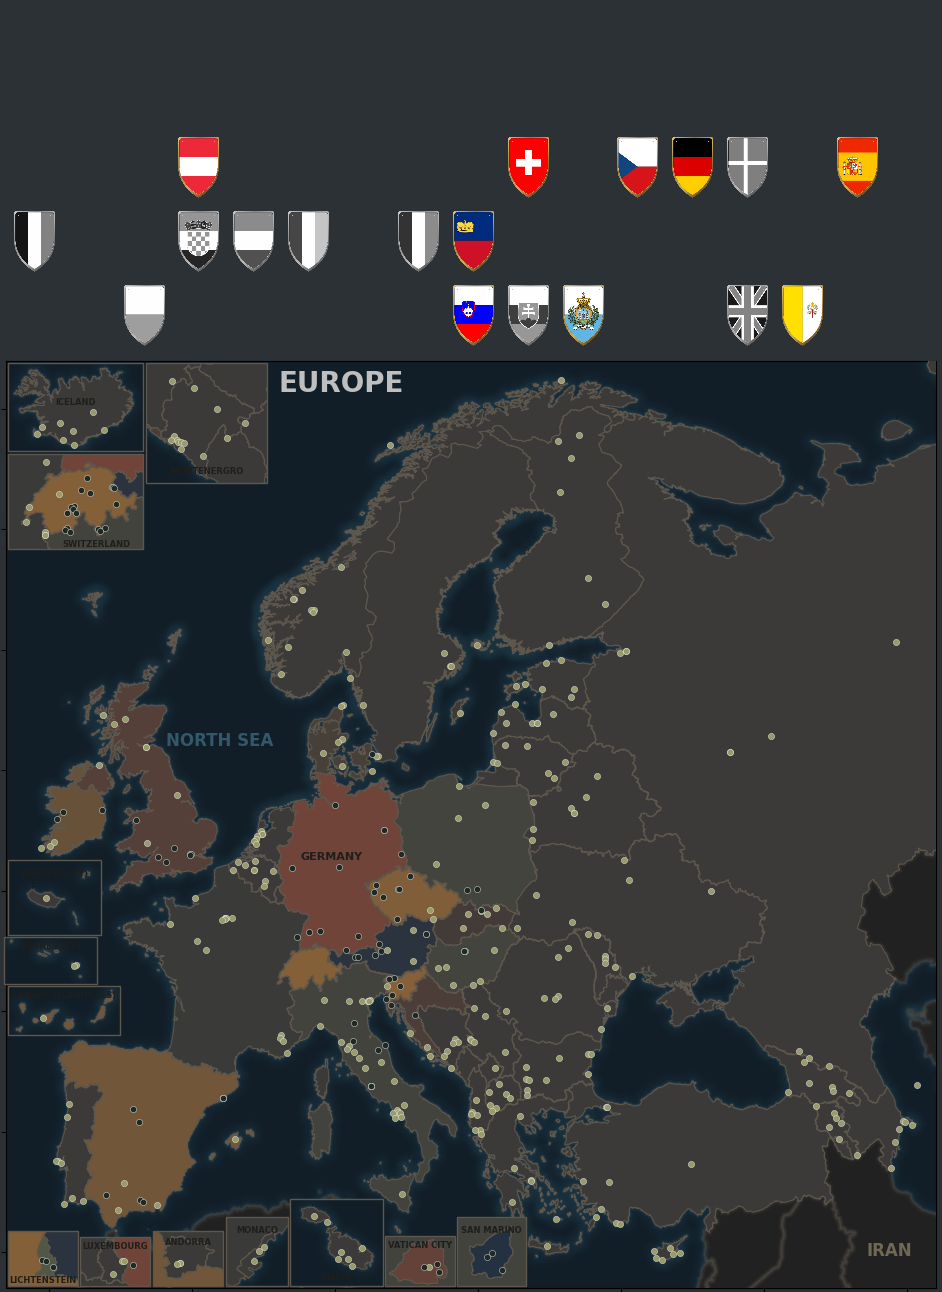
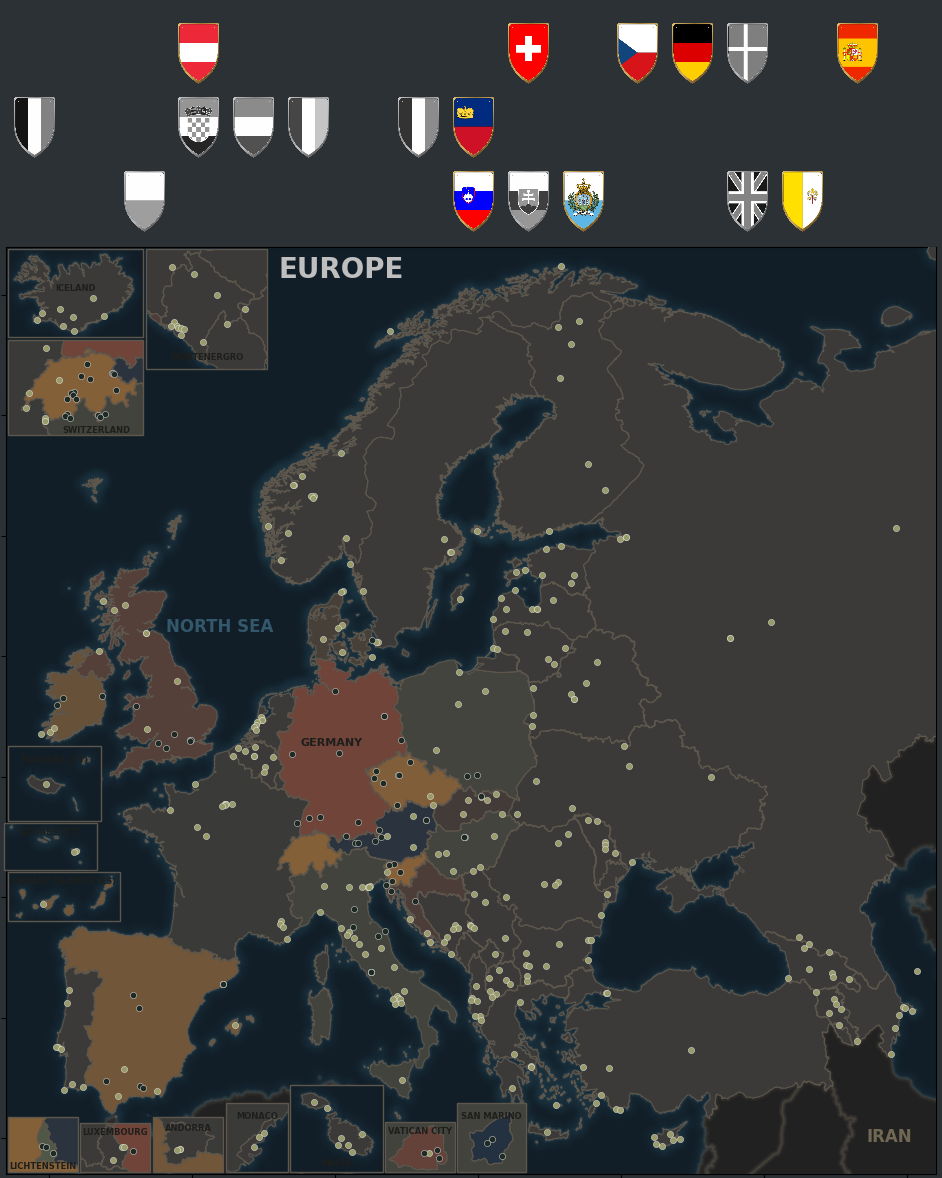
update cropping

diff --git a/main.py b/main.py
@@ -15,8 +15,8 @@ from utils.file_utils import ensure_directory_exists
 PATH = "eu"
 
 small_map = True
-small_gif = True
-large_map = True
+small_gif = False
+large_map = False
 
 # Ensure output folders exist
 ensure_directory_exists("plots/temp")
